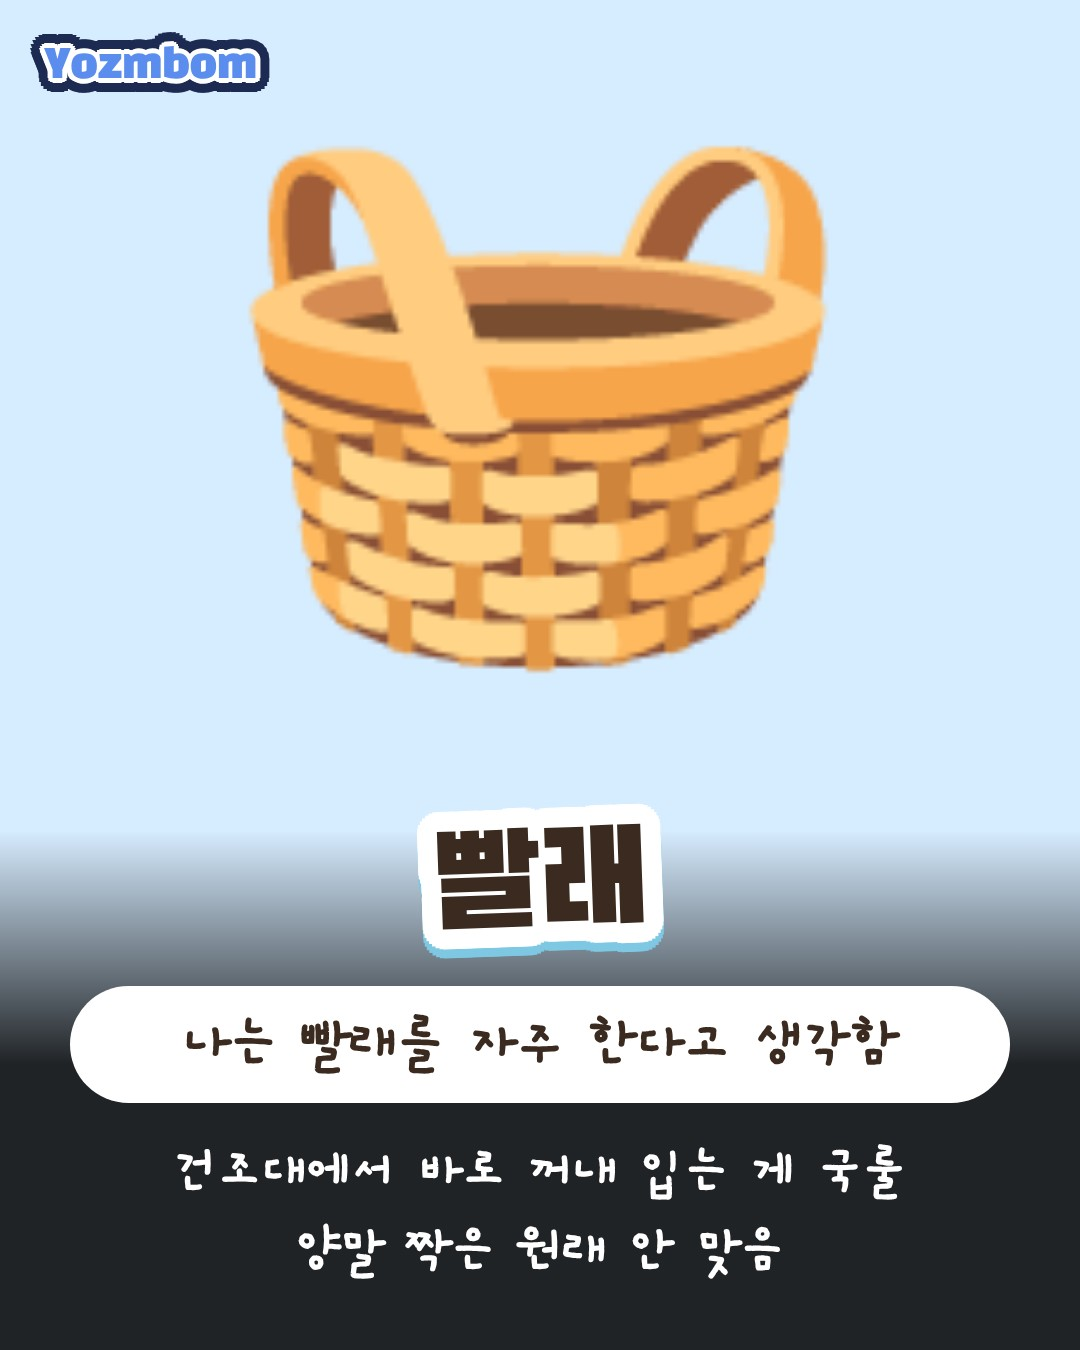
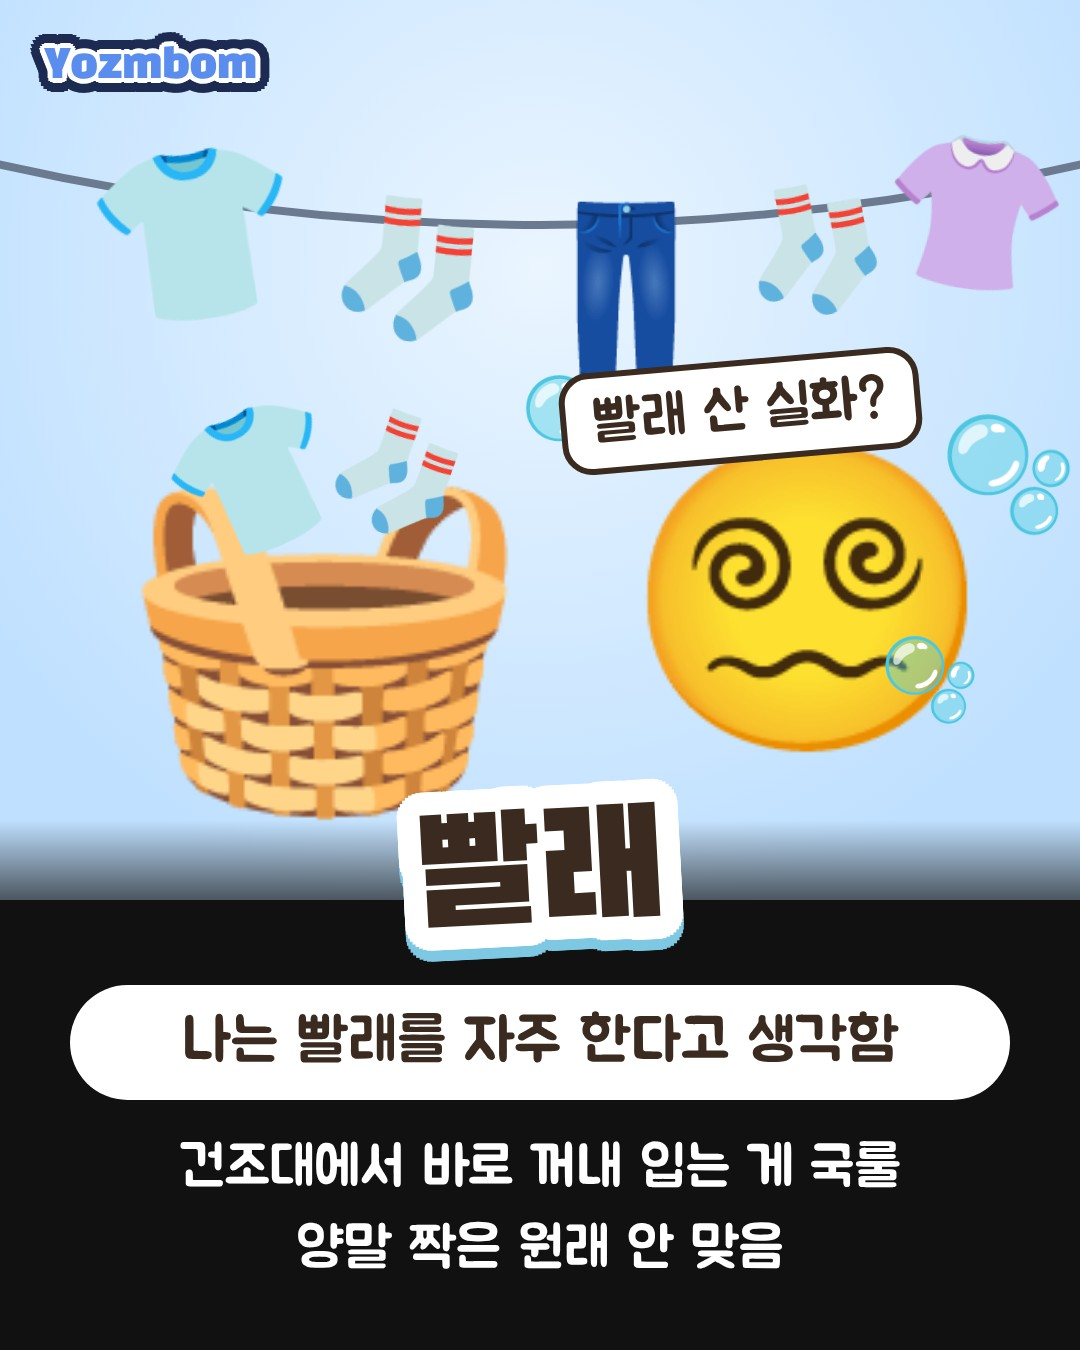
Exemple : cartes en scènes composées (cuisine, linge, livraison)
Claude-Session: https://claude.ai/code/session_01Rf7GSJabENiGDYHjjFLj4j

diff --git a/instagram/디자인-참고.md b/instagram/디자인-참고.md
@@ -36,3 +36,8 @@
 ## 앞으로
 - 디자인은 3일마다 바뀌는 테마에 이 아이디어들을 하나씩 넣는다 (집중선 표지, 모눈 노트, 공감 카드)
 - 일주일에 한 번(일요일 밤 작업) 요즘 인기 카드뉴스·릴스 형식을 검색해서 이 파일에 덧붙인다
+
+## 2026-11-25 · 사용자 피드백
+- 이모지 **하나만 크게** 두면 밋밋하고 무슨 상황인지 안 보임 ("요리하는 느낌이 아니잖아")
+- → **장면으로 만든다**: 배경(주방 타일+조리대, 빨랫줄, 밤 방 창문) + 이모지 여러 개(사람·도구·음식·효과 💦✨🔥) + 말풍선 한 마디("셰프 데뷔?!")
+- 사진 대신 그림을 쓸 때는 항상 "상황이 한눈에 보이는가"를 확인
